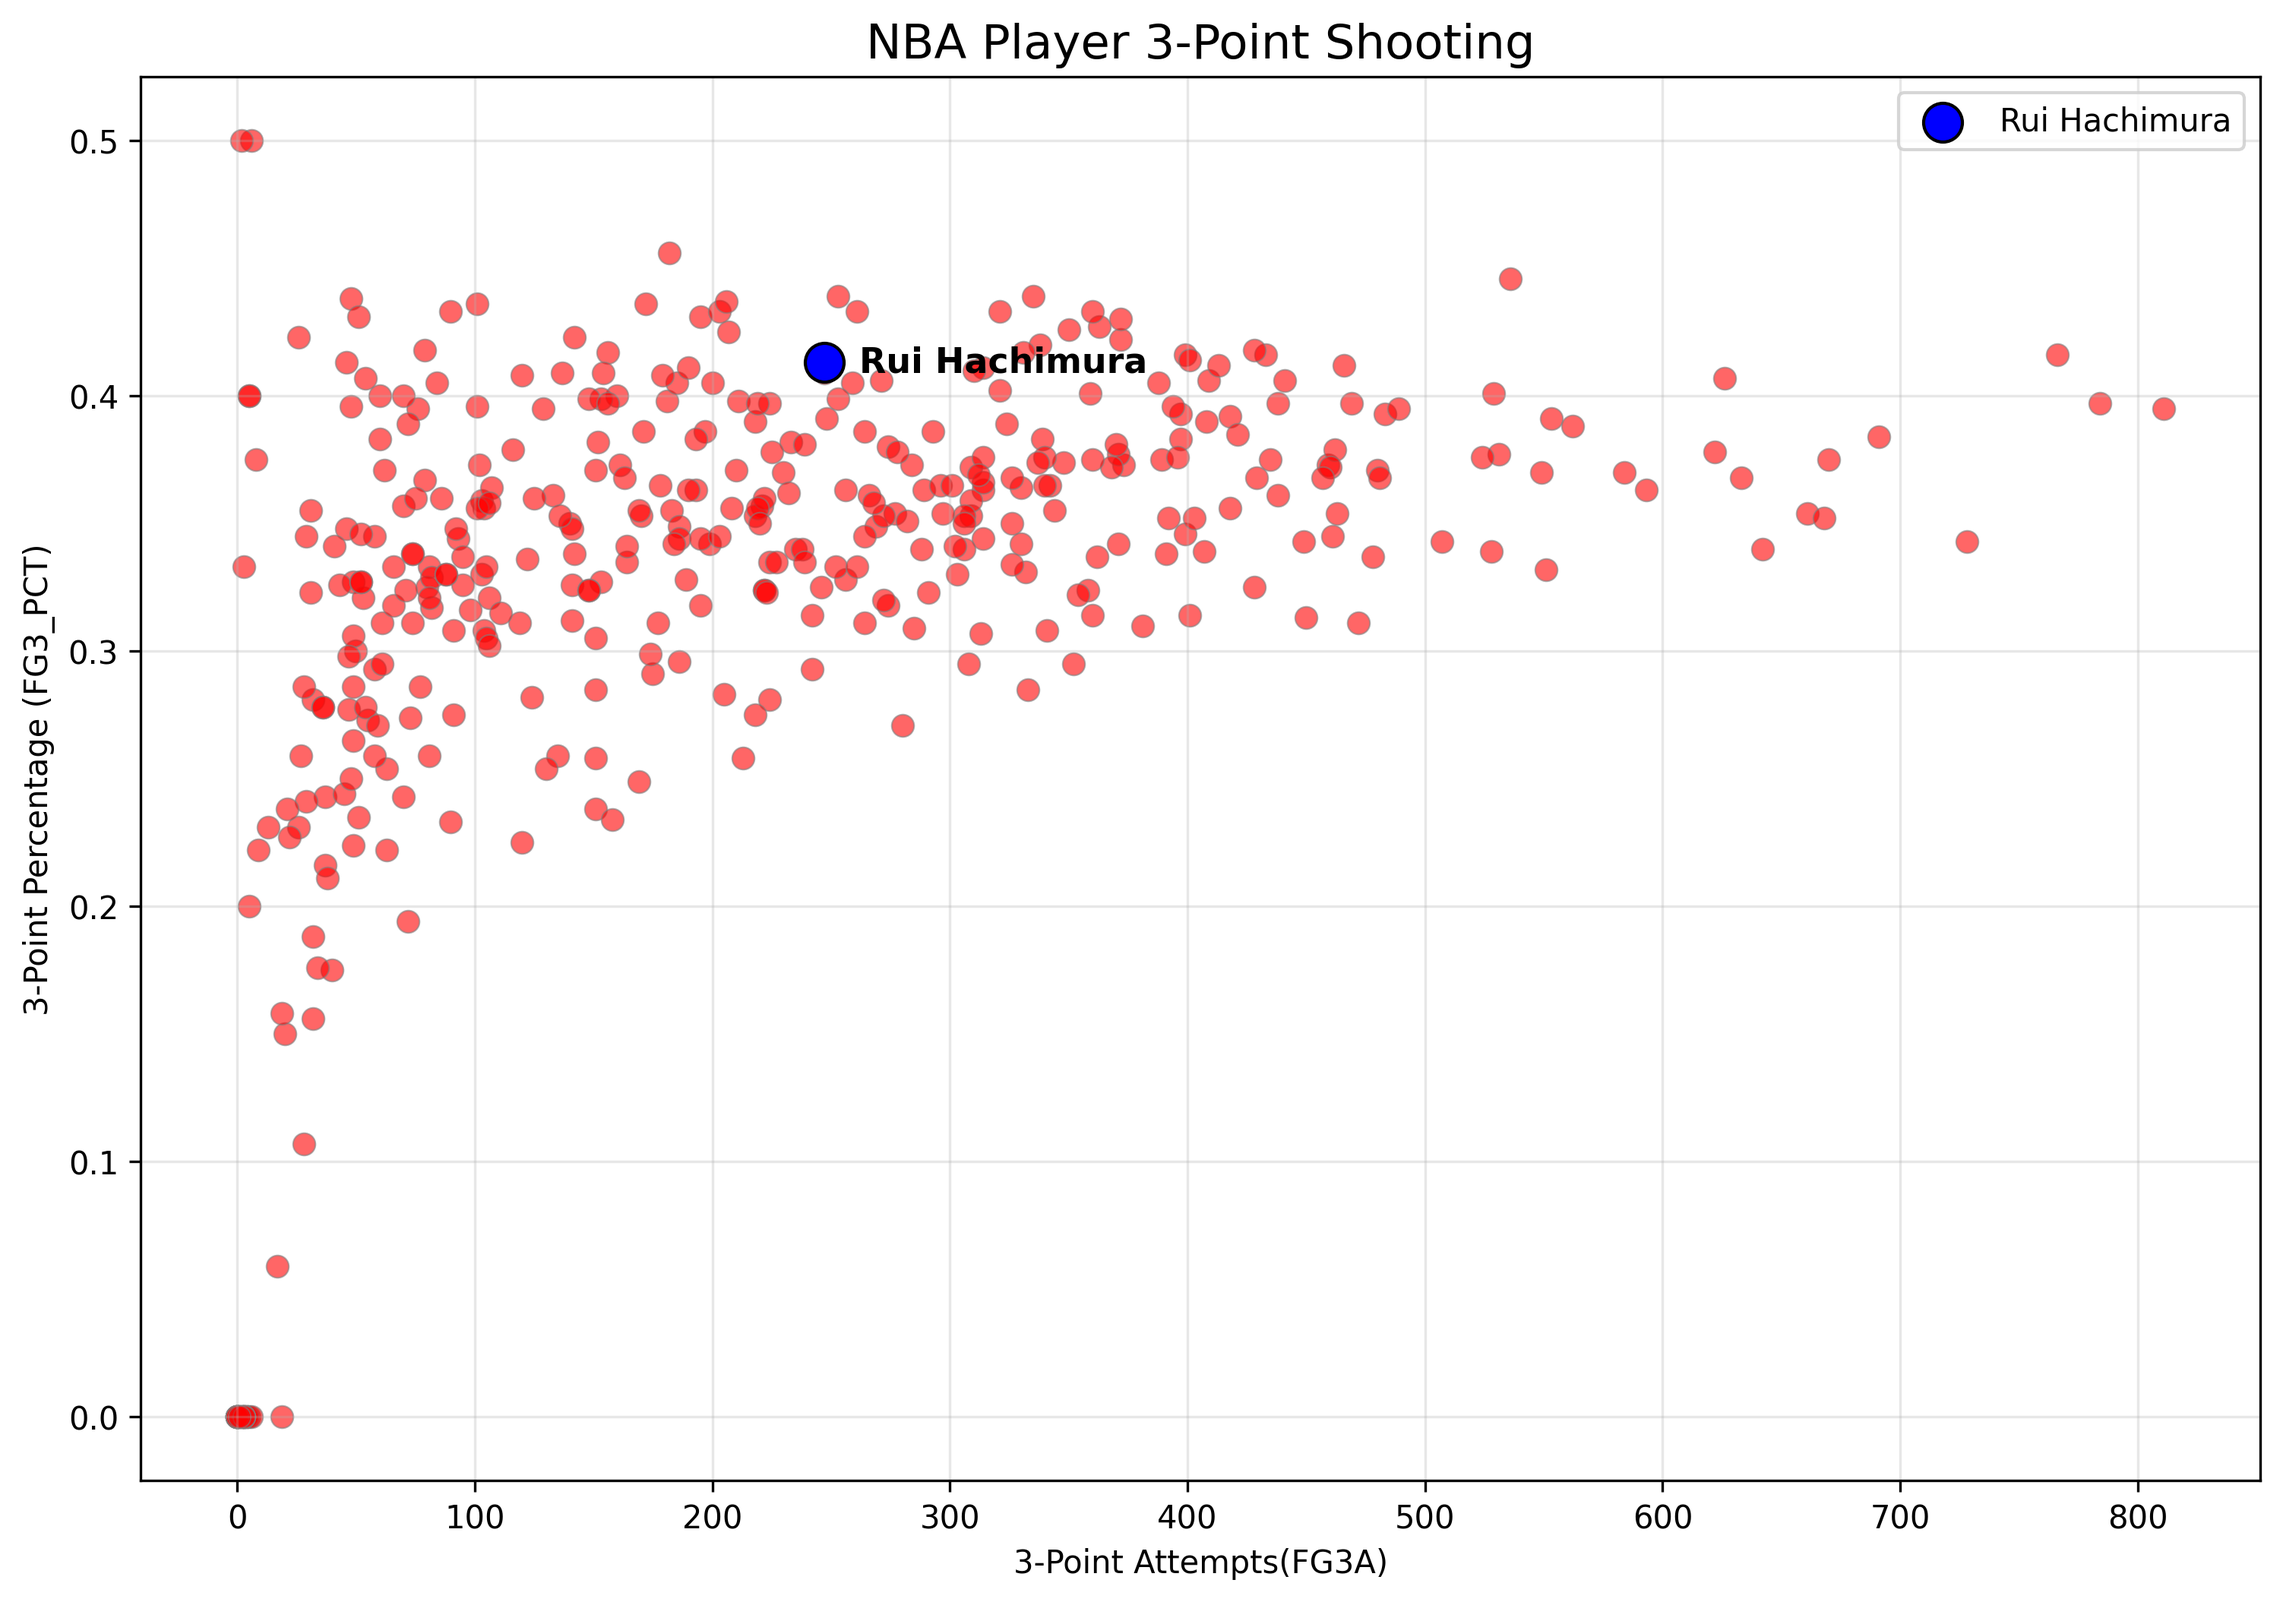
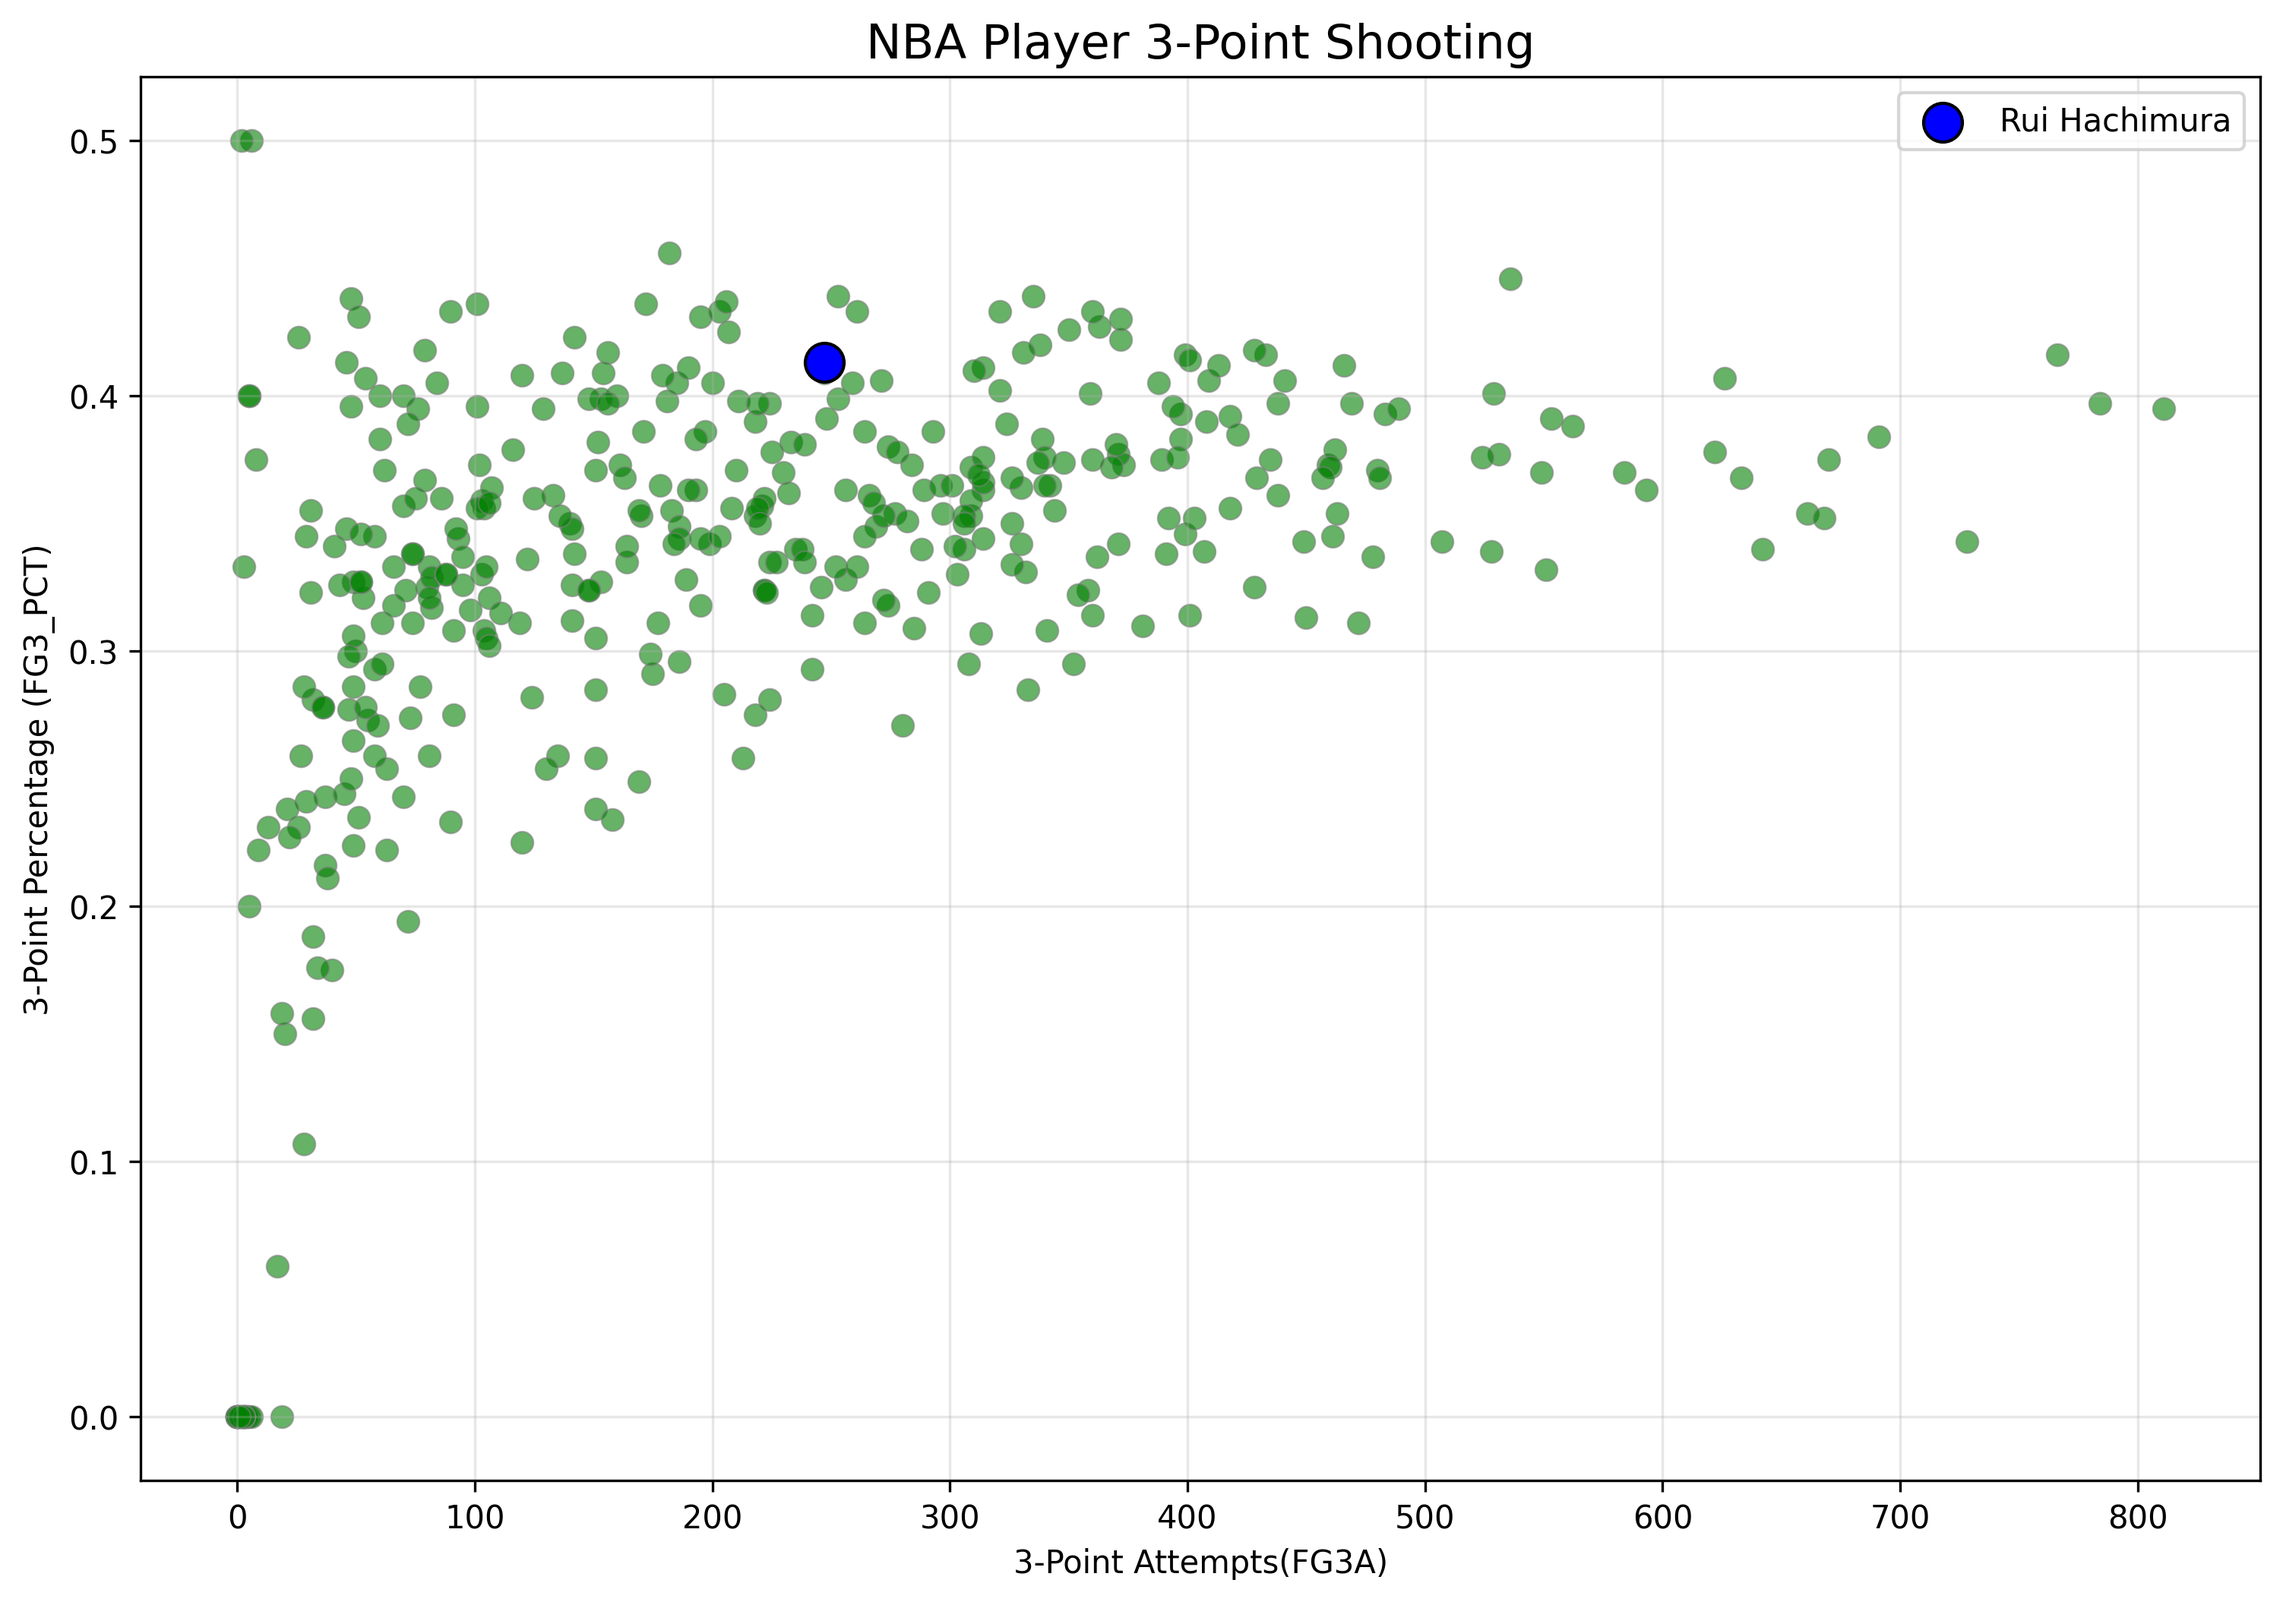
feat: role segmentation

diff --git a/scripts/general_scatter.py b/scripts/general_scatter.py
@@ -6,37 +6,23 @@ import matplotlib.pyplot as plt
 df = pd.read_csv("../outputs/csv/nba_players_2024_2025_30games_clustering.csv")
 plot_dir = "../outputs/plots"
 os.makedirs(plot_dir, exist_ok=True)
-
 # 3ポイント関連の特徴量のみを使用
-features = ["FG3A", "FG3_PCT"]
-
+features_3pt = ["FG3A", "FG3_PCT"]
 # 欠損値を0で埋める
-df_clean = df[features].fillna(0)
-
-# 散布図の可視化
+df_clean_3pt = df[features_3pt].fillna(0)
+# 散布図の可視化（3ポイント）
 plt.figure(figsize=(12, 8))
-
 # 全選手をプロット
 plt.scatter(
-    df_clean["FG3A"], df_clean["FG3_PCT"],
-    c="red", s=50, alpha=0.6, edgecolor="gray", linewidth=0.5
+    df_clean_3pt["FG3A"], df_clean_3pt["FG3_PCT"],
+    c="green", s=50, alpha=0.6, edgecolor="gray", linewidth=0.5
 )
-
 # 八村塁ハイライト
 rui = df[df["PLAYER_NAME"].str.contains("Hachimura", case=False, na=False)]
 if not rui.empty:
     plt.scatter(
         rui["FG3A"], rui["FG3_PCT"],
-        s=150, color="blue", edgecolor="black", zorder=5, label="Rui Hachimura"
-    )
-    plt.text(
-        rui["FG3A"].values[0] + 15, 
-        rui["FG3_PCT"].values[0], 
-        "Rui Hachimura", 
-        color="black", 
-        fontsize=11, 
-        weight="bold",
-        va="center"
+        s=250, color="blue", edgecolor="black", zorder=5, label="Rui Hachimura"
     )
 
 plt.title("NBA Player 3-Point Shooting", fontsize=15)
@@ -45,18 +31,53 @@ plt.ylabel("3-Point Percentage (FG3_PCT)")
 plt.legend()
 plt.grid(alpha=0.3)
 
-path = f"{plot_dir}/nba_3pt_scatter.png"
-plt.savefig(path, bbox_inches="tight", dpi=300)
+path_3pt = f"{plot_dir}/nba_3pt_scatter.png"
+plt.savefig(path_3pt, bbox_inches="tight", dpi=300)
 plt.close()
 
+# フィールドゴール関連の特徴量を使用
+features_fg = ["FGA", "FG_PCT"]
+# 欠損値を0で埋める
+df_clean_fg = df[features_fg].fillna(0)
+# 散布図の可視化（フィールドゴール
+plt.figure(figsize=(12, 8))
+# 全選手をプロット
+plt.scatter(
+    df_clean_fg["FGA"], df_clean_fg["FG_PCT"],
+    c="green", s=50, alpha=0.6, edgecolor="gray", linewidth=0.5
+)
+# 八村塁ハイライト
+if not rui.empty:
+    plt.scatter(
+        rui["FGA"], rui["FG_PCT"],
+        s=250, color="blue", edgecolor="black", zorder=5, label="Rui Hachimura"
+    )
+
+plt.title("NBA Player Field Goal Shooting", fontsize=15)
+plt.xlabel("Field Goal Attempts (FGA)")
+plt.ylabel("Field Goal Percentage (FG_PCT)")
+plt.legend()
+plt.grid(alpha=0.3)
+
+path_fg = f"{plot_dir}/nba_fg_scatter.png"
+plt.savefig(path_fg, bbox_inches="tight", dpi=300)
+plt.close()
 # 結果出力
 print("3ポイントシュート散布図分析結果")
 print(f"総選手数: {len(df)}人")
-print(f"平均3P試行数: {df_clean['FG3A'].mean():.3f}")
-print(f"平均3P成功率: {df_clean['FG3_PCT'].mean():.3f}")
+print(f"平均3P試行数: {df_clean_3pt['FG3A'].mean():.3f}")
+print(f"平均3P成功率: {df_clean_3pt['FG3_PCT'].mean():.3f}")
+
+print("\nフィールドゴール散布図分析結果")
+print(f"平均FG試行数: {df_clean_fg['FGA'].mean():.3f}")
+print(f"平均FG成功率: {df_clean_fg['FG_PCT'].mean():.3f}")
 
 if not rui.empty:
     print(f"\n八村塁の3P試行数: {rui['FG3A'].values[0]:.1f}")
     print(f"八村塁の3P成功率: {rui['FG3_PCT'].values[0]:.3f}")
+    print(f"八村塁のFG試行数: {rui['FGA'].values[0]:.1f}")
+    print(f"八村塁のFG成功率: {rui['FG_PCT'].values[0]:.3f}")
 
-print(f"\n出力完了: {path}")
+print(f"\n出力完了:")
+print(f"  3ポイント散布図: {path_3pt}")
+print(f"  フィールドゴール散布図: {path_fg}")

diff --git a/scripts/role_segmentation.py b/scripts/role_segmentation.py
@@ -65,11 +65,6 @@ if not rui.empty:
         rui["USG_PCT"], rui["TS_PCT"],
         s=250, color="gold", edgecolor="black", zorder=5, label="Rui Hachimura"
     )
-    plt.text(
-        rui["USG_PCT"].values[0] + 0.6,
-        rui["TS_PCT"].values[0],
-        "Rui Hachimura", color="black", fontsize=11, weight="bold"
-    )
 
 plt.xlabel("Usage Rate (%)", fontsize=12)
 plt.ylabel("True Shooting (%)", fontsize=12)
